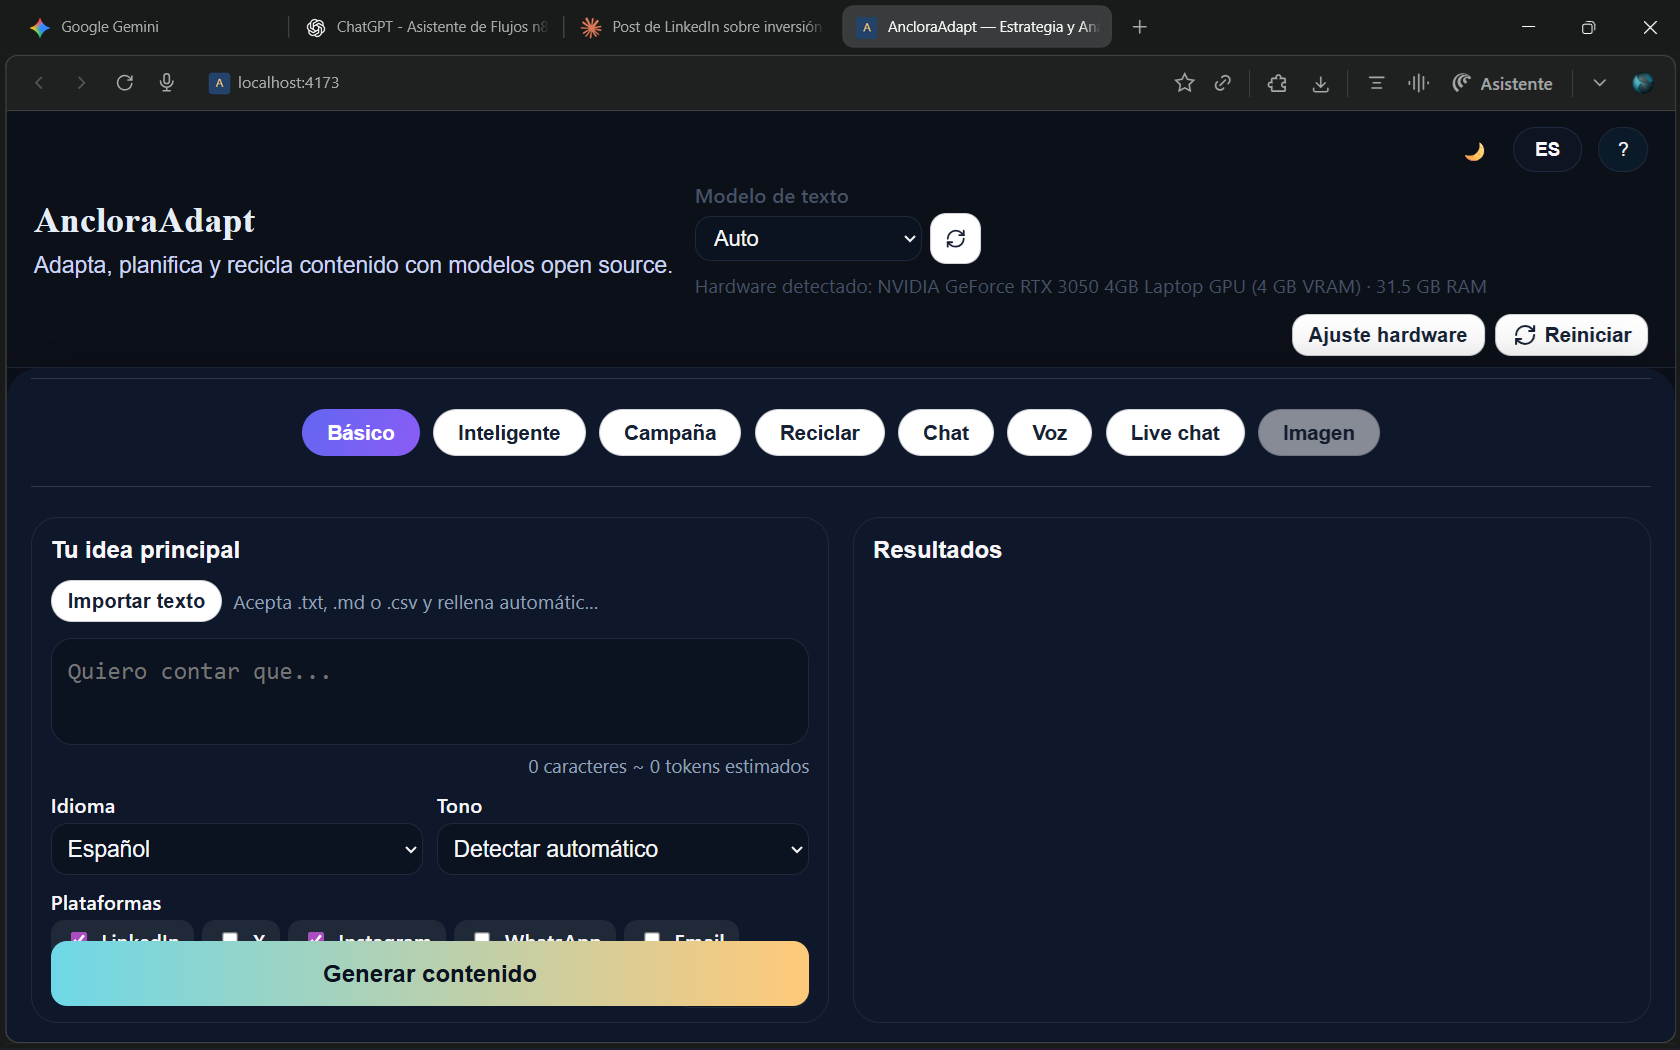
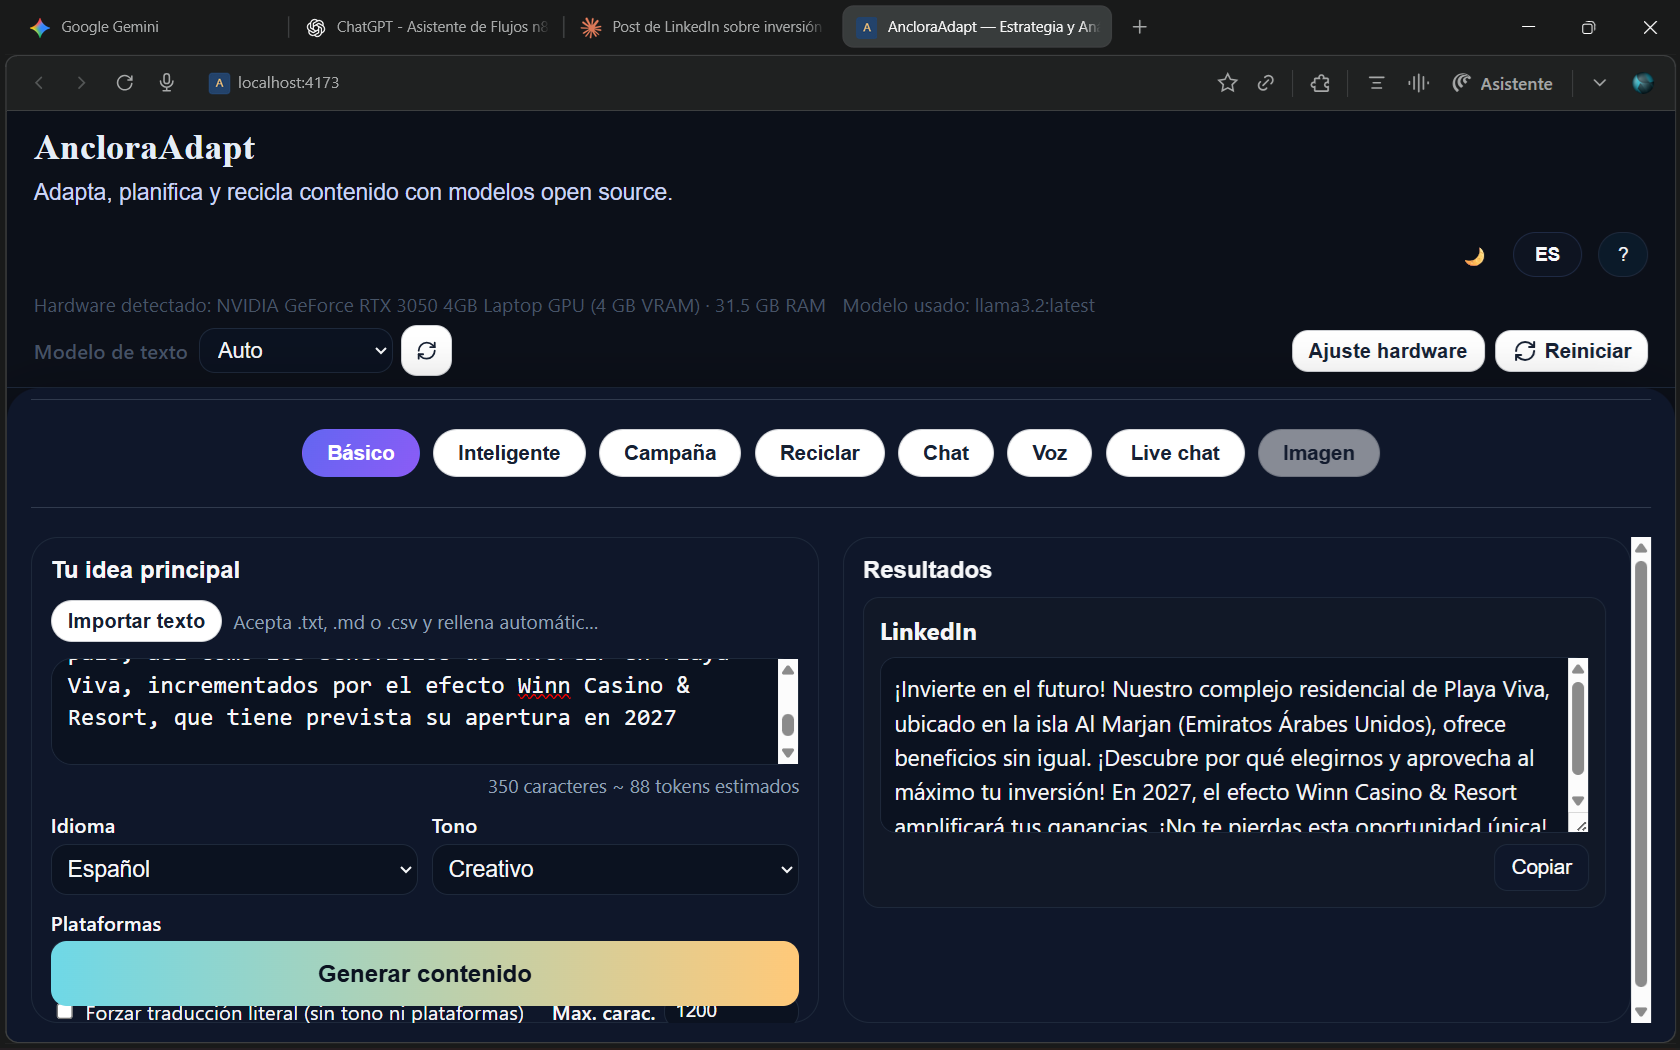
• Actualicé docs/CONTEXTO.md añadiendo una sección en el Resumen donde documento el problema   persistente con la barra superior: la necesidad de mantener alineados selector, botones y   estados de hardware/modelo sin que aparezcan nuevas líneas ni se oculten campos. También   detallo los criterios 

diff --git a/docs/CONTEXTO.md b/docs/CONTEXTO.md
@@ -13,6 +13,12 @@ Ultima revision: **diciembre 2025**.
 - **Auto + fallback inteligente**: `resolveTextModelId` puntua los modelos disponibles (prioriza Qwen/Mistral para CJK) y `handleGenerate` reintenta automaticamente con el siguiente candidato cuando el modelo seleccionado devuelve JSON invalido, incluso si lo eligio manualmente el usuario.
 - **Ajuste de hardware bajo demanda**: boton "Ajuste hardware" que consulta `/api/system/capabilities`, detecta CPU/RAM/VRAM reales (via `torch` o `nvidia-smi`) y devuelve los modelos recomendados en orden, ademas de indicar que modos pueden usarse en la UI.
 - **Mejoras de UX** recientes: layout del modo Basico sin scroll vertical, CTA siempre visible con texto dinamico (**Generar contenido** / **Generar traduccion**), chips y toggles con contraste en claro/oscuro y boton "Copiar" con texto blanco.
+- **Trabajo pendiente sobre la cabecera**: seguimos refinando la barra "Modelo de texto / Actualizar modelo / Ajuste hardware" para que nunca genere nuevas lineas ni desplace el formulario. Tras cada ajuste se vuelve a tener que comprobar que:
+  1. El selector y los botones se mantengan alineados con el subtitulo;
+  2. Al pulsar "Ajuste hardware" la informacion detectada y, en caso de modo `Auto`, el "Modelo usado" aparezcan en una sola línea inmediatamente debajo del grupo anterior, sin desplazar los chips ni los campos "Forzar traducción" y "Max. carac.";
+  3. La línea inferior se adapte al ancho disponible (recortando o moviendo el texto hacia la izquierda) para evitar que aparezcan scrolls o saltos de línea adicionales.
+  
+  Esta alineación está siendo delicada porque la cabecera contiene varios bloques con diferentes longitudes: traducción, alternancia de idioma, selector de modelo, botones y la información dinámica de hardware/modelo usado. Cada cambio de estilo puede causar desbordes y scroll si no se controla bien `flexShrink`, `minWidth` y `white-space`, de ahí los múltiples ajustes recientes.
 
 ---
 
